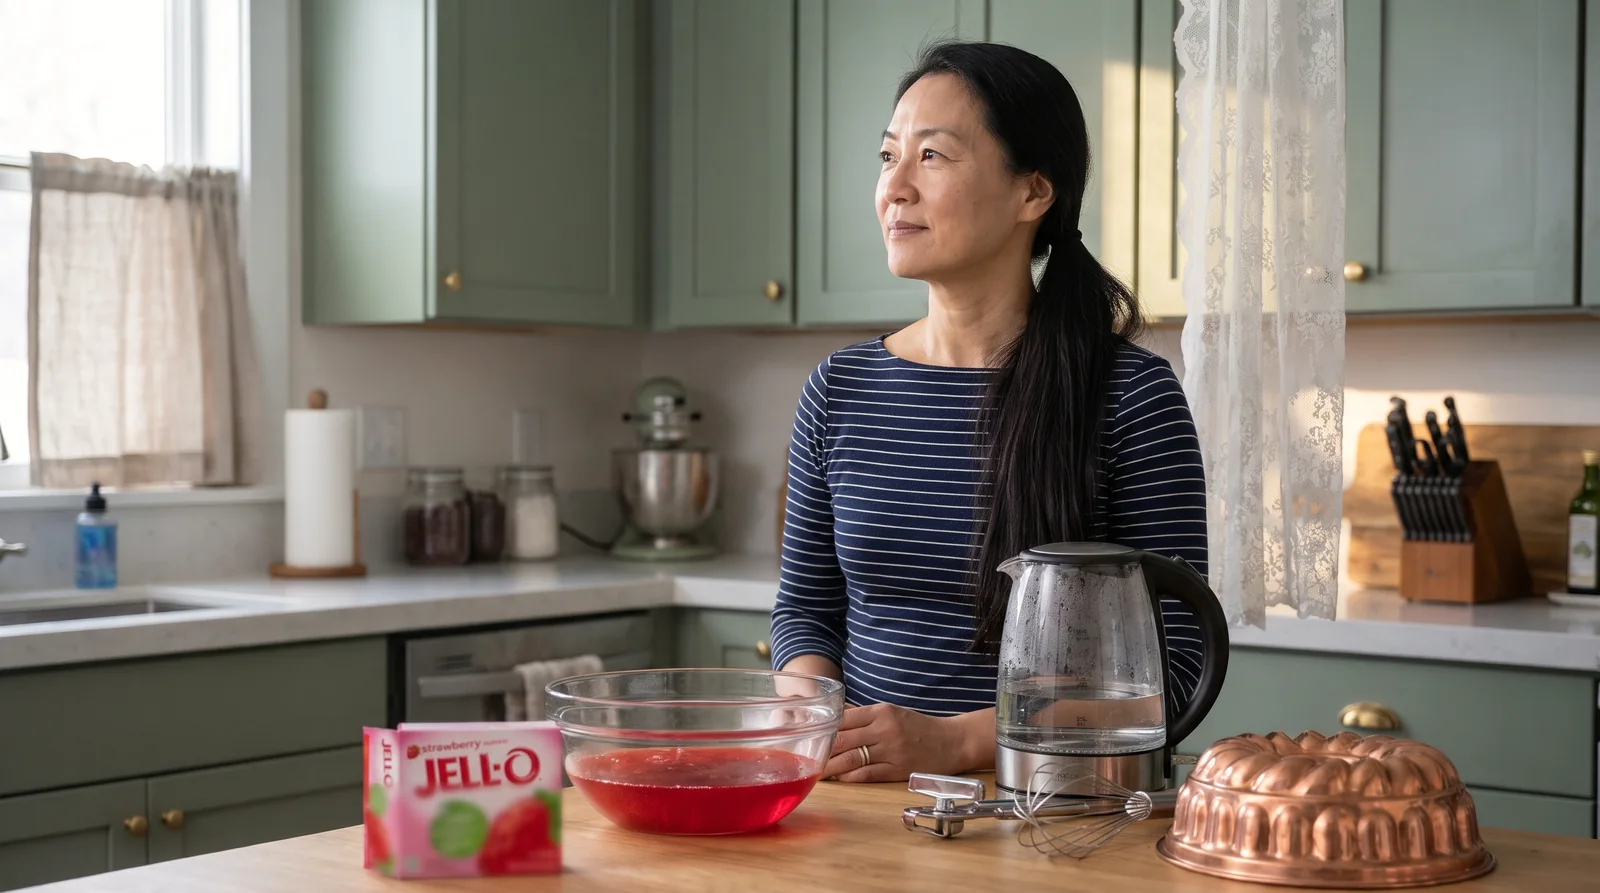
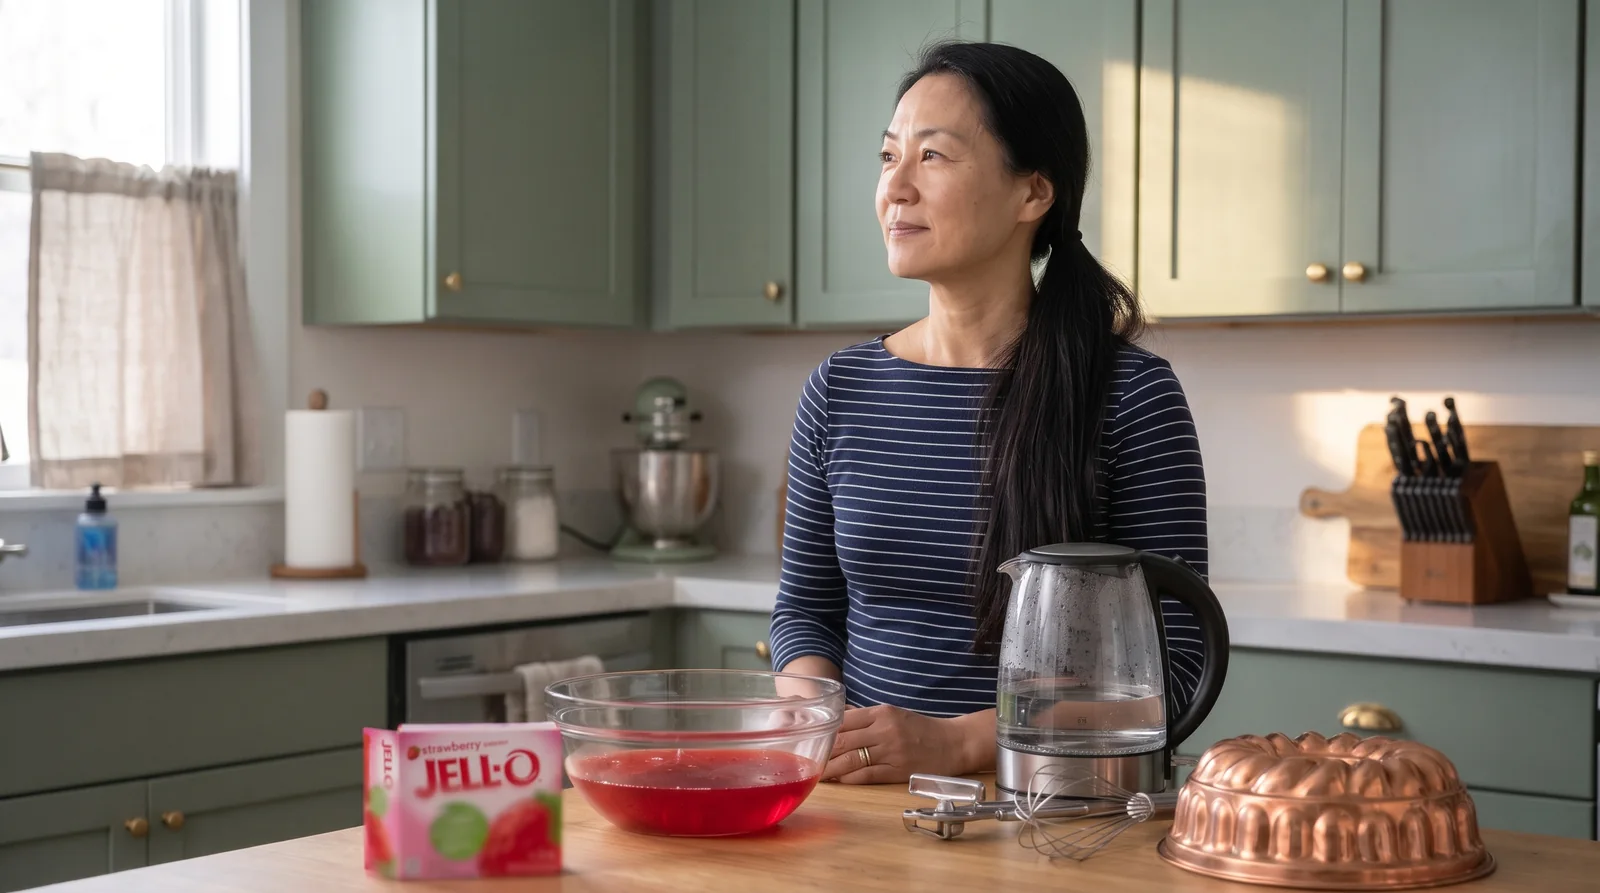
photos: is-jello-bad-for-you recheck fixes

diff --git a/blog-pipeline/photos-completed/is-jello-bad-for-you.md b/blog-pipeline/photos-completed/is-jello-bad-for-you.md
@@ -36,3 +36,6 @@ note: "Sage green kitchen with cafe curtains, Korean American woman in her late 
 - image_url: https://scan.ismyhometoxic.com/blog-images/isjellobadf-freedom-v1.webp
 - placement: final image before the closing scan CTA
 - completed: 2026-11-19T15:59:00
+
+## Recheck (Photo Claude) 2026-11-20
+Recheck: Floating curtain panel removed.
